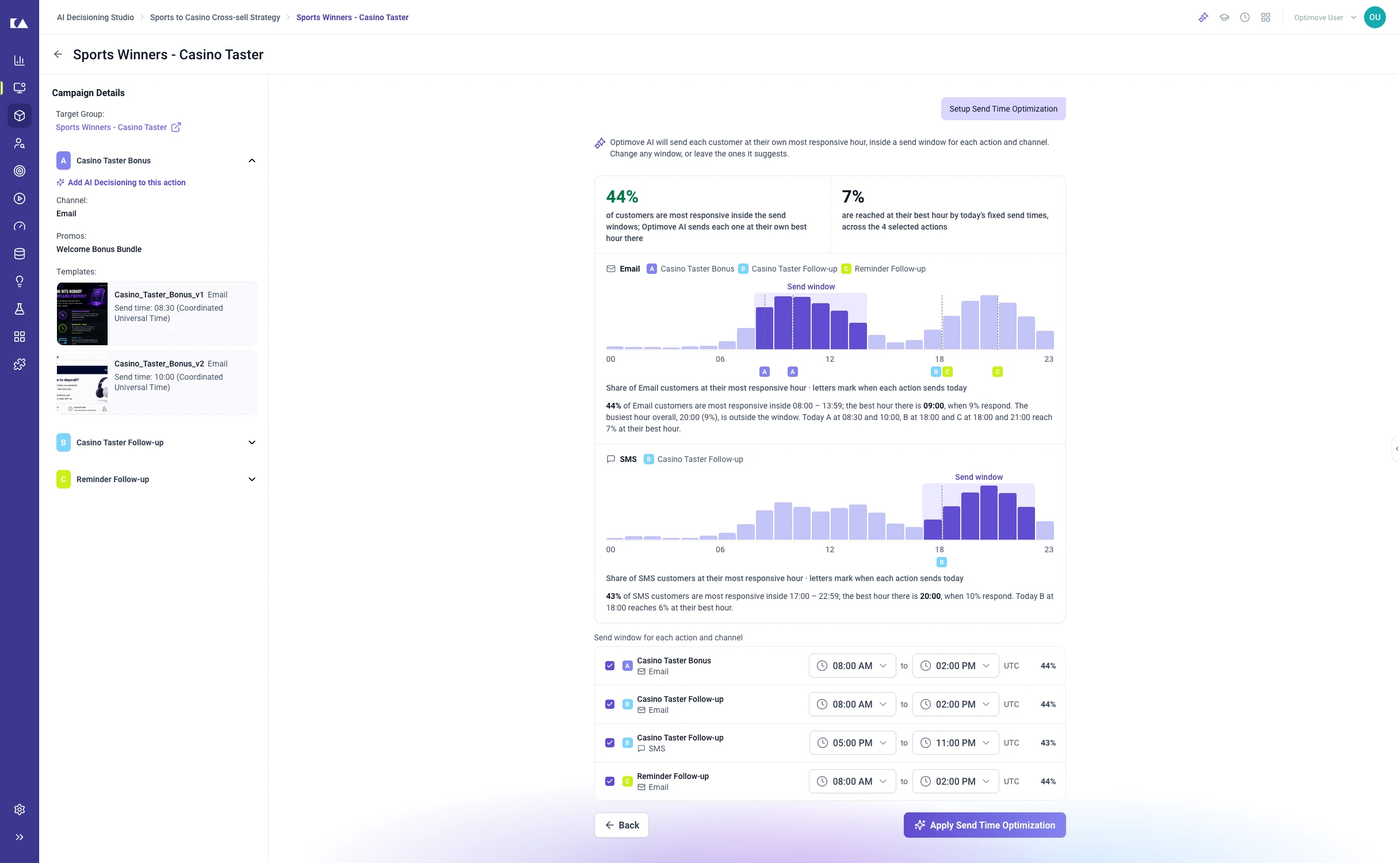
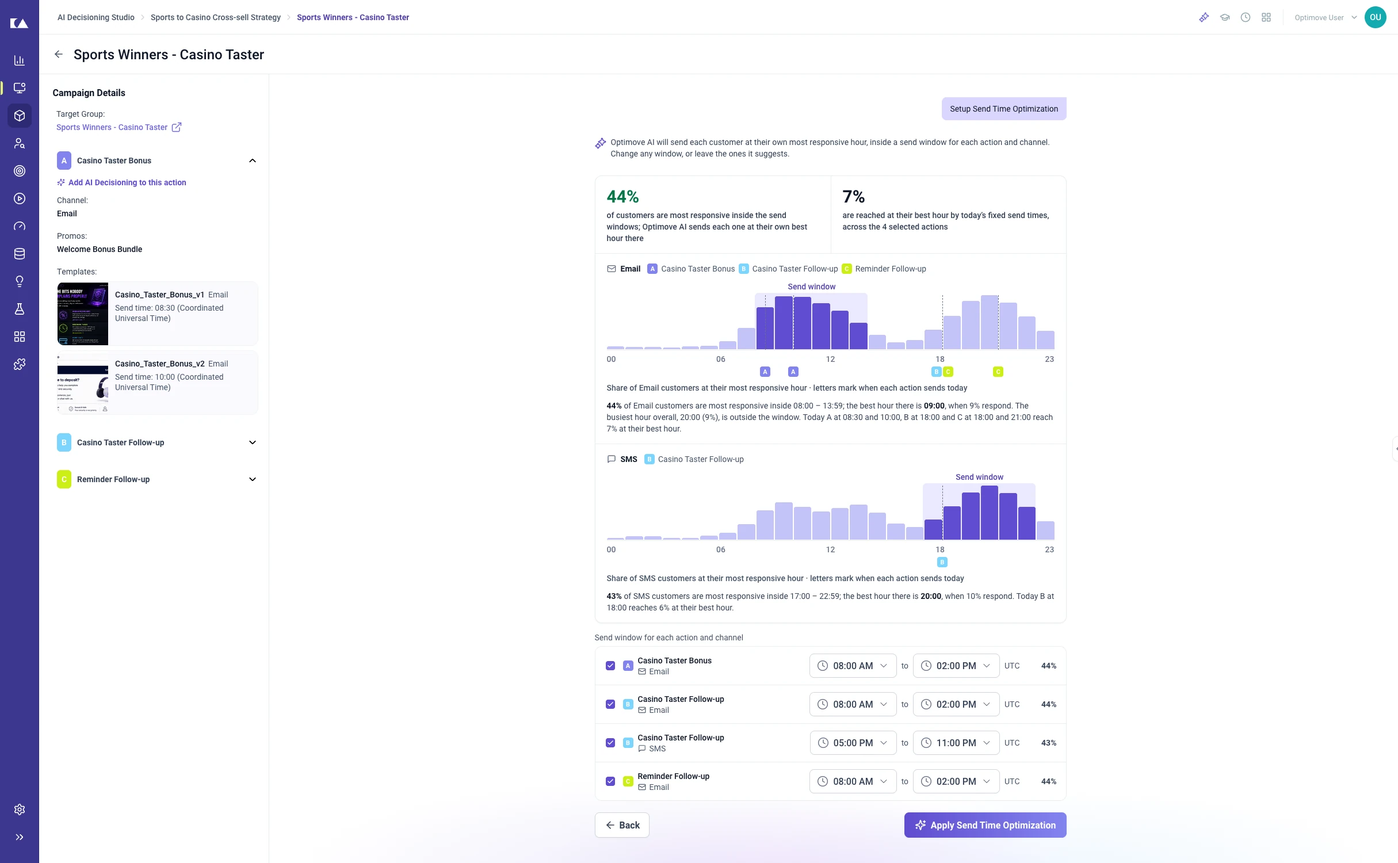
Soften the Send Time setup screenshot gradient

diff --git a/ai-decisioning-studio.html b/ai-decisioning-studio.html
@@ -874,7 +874,7 @@ body::after { content: ""; position: fixed; inset: 0; z-index: 9000; pointer-eve
             <div class="story-block fade-up"><div class="story-block__head"><span class="story-block__n">Before and after</span><h3>What it will do, then what it did</h3><p>A preview before the switch, a result against control after it.</p></div><figure class="story-block__art story-block__art--film" aria-label="Before and after"><video class="ba-film" src="./assets/ai-decisioning-studio/ads-before-after-anim.mp4?v=82c0aa6a4124" data-m="./assets/ai-decisioning-studio/ads-before-after-anim-m.mp4?v=002529f3a4f2" poster="./assets/ai-decisioning-studio/ads-before-after-anim-poster.webp?v=3c127877d6f6" width="1920" height="1030" autoplay muted playsinline preload="metadata" aria-label="Animated timeline. Before it runs: the response by hour rises and the send window is marked, 44% most responsive in it; the marketer switches Send Time Optimization on, and nothing sends before this. After it runs: random tries narrow into the best hour while it keeps exploring; Optimove AI pulls away from the random control and +7.6% counts up."></video><svg class="mg" id="ads-before-after" viewBox="0 0 1700 938" role="img" aria-label="Infographic timeline in two phases. Four stages, each an icon on a label rail feeding a card. Before it runs, what it will do: 01 setup preview, response by hour with the send window marked, 44% of customers most responsive inside the send window; 02 switch on, the marketer decides and nothing sends before this. A dashed switch-on line splits the phases. After it runs, what it did: 03 learn, explores at random and keeps exploring while it learns the best hour; 04 result, +7.6% optimization benefit against a random control group." xmlns="http://www.w3.org/2000/svg"><circle vector-effect="non-scaling-stroke" cx="190.0" cy="64" r="28" fill="#ffffff" stroke="#3d3d48" stroke-width="1.5"/><line vector-effect="non-scaling-stroke" x1="190.0" y1="64" x2="190.0" y2="47" stroke="#3d3d48" stroke-width="1.5"/><line vector-effect="non-scaling-stroke" x1="190.0" y1="64" x2="202.0" y2="71" stroke="#3d3d48" stroke-width="1.5"/><circle vector-effect="non-scaling-stroke" cx="190.0" cy="64" r="4" fill="#6b4ef5"/><line vector-effect="non-scaling-stroke" x1="213.0" y1="64.0" x2="217.0" y2="64.0" stroke="#3d3d48" stroke-width="1"/><line vector-effect="non-scaling-stroke" x1="209.91858428704208" y1="75.5" x2="213.38268590217984" y2="77.5" stroke="#3d3d48" stroke-width="1"/><line vector-effect="non-scaling-stroke" x1="201.5" y1="83.91858428704208" x2="203.5" y2="87.38268590217984" stroke="#3d3d48" stroke-width="1"/><line vector-effect="non-scaling-stroke" x1="190.0" y1="87.0" x2="190.0" y2="91.0" stroke="#3d3d48" stroke-width="1"/><line vector-effect="non-scaling-stroke" x1="178.5" y1="83.9185842870421" x2="176.5" y2="87.38268590217984" stroke="#3d3d48" stroke-width="1"/><line vector-effect="non-scaling-stroke" x1="170.08141571295792" y1="75.5" x2="166.61731409782016" y2="77.5" stroke="#3d3d48" stroke-width="1"/><line vector-effect="non-scaling-stroke" x1="167.0" y1="64.0" x2="163.0" y2="64.0" stroke="#3d3d48" stroke-width="1"/><line vector-effect="non-scaling-stroke" x1="170.0814157129579" y1="52.50000000000001" x2="166.61731409782016" y2="50.50000000000001" stroke="#3d3d48" stroke-width="1"/><line vector-effect="non-scaling-stroke" x1="178.5" y1="44.08141571295792" x2="176.5" y2="40.61731409782016" stroke="#3d3d48" stroke-width="1"/><line vector-effect="non-scaling-stroke" x1="190.0" y1="41.0" x2="190.0" y2="37.0" stroke="#3d3d48" stroke-width="1"/><line vector-effect="non-scaling-stroke" x1="201.5" y1="44.08141571295791" x2="203.5" y2="40.617314097820156" stroke="#3d3d48" stroke-width="1"/><line vector-effect="non-scaling-stroke" x1="209.91858428704208" y1="52.499999999999986" x2="213.38268590217984" y2="50.499999999999986" stroke="#3d3d48" stroke-width="1"/><line vector-effect="non-scaling-stroke" x1="60.0" y1="116" x2="320.0" y2="116" stroke="#3d3d48" stroke-width="1"/><line vector-effect="non-scaling-stroke" x1="190.0" y1="116" x2="190.0" y2="126" stroke="#3d3d48" stroke-width="1"/><text x="190.0" y="152" font-size="19.5" font-weight="700" fill="#16151f" text-anchor="middle" style="font-family:ui-monospace,SFMono-Regular,Menlo,monospace;letter-spacing:.16em">WHEN THEY RESPOND</text><line vector-effect="non-scaling-stroke" x1="140.0" y1="166" x2="240.0" y2="166" stroke="#3d3d48" stroke-width="1"/><line vector-effect="non-scaling-stroke" x1="190.0" y1="166" x2="190.0" y2="184" stroke="#3d3d48" stroke-width="1"/><circle vector-effect="non-scaling-stroke" cx="190.0" cy="193" r="8" fill="#6b4ef5"/><line vector-effect="non-scaling-stroke" x1="190.0" y1="201" x2="190.0" y2="236" stroke="#3d3d48" stroke-width="1"/><path vector-effect="non-scaling-stroke" d="M615.0 46 A24 24 0 1 0 645.0 46" fill="none" stroke="#3d3d48" stroke-width="1.5" stroke-linecap="round"/><line vector-effect="non-scaling-stroke" x1="630.0" y1="34" x2="630.0" y2="60" stroke="#6b4ef5" stroke-width="1.5" stroke-linecap="round"/><line vector-effect="non-scaling-stroke" x1="500.0" y1="116" x2="760.0" y2="116" stroke="#3d3d48" stroke-width="1"/><line vector-effect="non-scaling-stroke" x1="630.0" y1="116" x2="630.0" y2="126" stroke="#3d3d48" stroke-width="1"/><text x="630.0" y="152" font-size="19.5" font-weight="700" fill="#16151f" text-anchor="middle" style="font-family:ui-monospace,SFMono-Regular,Menlo,monospace;letter-spacing:.16em">MARKETER DECIDES</text><line vector-effect="non-scaling-stroke" x1="580.0" y1="166" x2="680.0" y2="166" stroke="#3d3d48" stroke-width="1"/><line vector-effect="non-scaling-stroke" x1="630.0" y1="166" x2="630.0" y2="184" stroke="#3d3d48" stroke-width="1"/><circle vector-effect="non-scaling-stroke" cx="630.0" cy="193" r="8" fill="#6b4ef5"/><line vector-effect="non-scaling-stroke" x1="630.0" y1="201" x2="630.0" y2="236" stroke="#3d3d48" stroke-width="1"/><path vector-effect="non-scaling-stroke" d="M1046.0 60 A24 24 0 0 1 1090.0 50" fill="none" stroke="#3d3d48" stroke-width="1.5"/><path vector-effect="non-scaling-stroke" d="M1082.0 44 L1091.0 51 L1095.0 40" fill="none" stroke="#3d3d48" stroke-width="1.5"/><path vector-effect="non-scaling-stroke" d="M1094.0 68 A24 24 0 0 1 1050.0 78" fill="none" stroke="#3d3d48" stroke-width="1.5"/><path vector-effect="non-scaling-stroke" d="M1058.0 84 L1049.0 77 L1045.0 88" fill="none" stroke="#3d3d48" stroke-width="1.5"/><circle vector-effect="non-scaling-stroke" cx="1070.0" cy="64" r="5" fill="#6b4ef5"/><line vector-effect="non-scaling-stroke" x1="940.0" y1="116" x2="1200.0" y2="116" stroke="#3d3d48" stroke-width="1"/><line vector-effect="non-scaling-stroke" x1="1070.0" y1="116" x2="1070.0" y2="126" stroke="#3d3d48" stroke-width="1"/><text x="1070.0" y="152" font-size="19.5" font-weight="700" fill="#16151f" text-anchor="middle" style="font-family:ui-monospace,SFMono-Regular,Menlo,monospace;letter-spacing:.16em">IT LEARNS</text><line vector-effect="non-scaling-stroke" x1="1020.0" y1="166" x2="1120.0" y2="166" stroke="#3d3d48" stroke-width="1"/><line vector-effect="non-scaling-stroke" x1="1070.0" y1="166" x2="1070.0" y2="184" stroke="#3d3d48" stroke-width="1"/><circle vector-effect="non-scaling-stroke" cx="1070.0" cy="193" r="8" fill="#6b4ef5"/><line vector-effect="non-scaling-stroke" x1="1070.0" y1="201" x2="1070.0" y2="236" stroke="#3d3d48" stroke-width="1"/><path vector-effect="non-scaling-stroke" d="M1482.0 36 V90 H1540.0" fill="none" stroke="#3d3d48" stroke-width="1.5"/><path vector-effect="non-scaling-stroke" d="M1490.0 78 L1504.0 68 L1516.0 74 L1532.0 48" fill="none" stroke="#6b4ef5" stroke-width="1.5"/><path vector-effect="non-scaling-stroke" d="M1490.0 82 L1532.0 76" fill="none" stroke="#b9bac2" stroke-width="1.5" stroke-dasharray="3 3"/><circle vector-effect="non-scaling-stroke" cx="1532.0" cy="48" r="4.5" fill="#6b4ef5"/><line vector-effect="non-scaling-stroke" x1="1380.0" y1="116" x2="1640.0" y2="116" stroke="#3d3d48" stroke-width="1"/><line vector-effect="non-scaling-stroke" x1="1510.0" y1="116" x2="1510.0" y2="126" stroke="#3d3d48" stroke-width="1"/><text x="1510.0" y="152" font-size="19.5" font-weight="700" fill="#16151f" text-anchor="middle" style="font-family:ui-monospace,SFMono-Regular,Menlo,monospace;letter-spacing:.16em">IT REPORTS</text><line vector-effect="non-scaling-stroke" x1="1460.0" y1="166" x2="1560.0" y2="166" stroke="#3d3d48" stroke-width="1"/><line vector-effect="non-scaling-stroke" x1="1510.0" y1="166" x2="1510.0" y2="184" stroke="#3d3d48" stroke-width="1"/><circle vector-effect="non-scaling-stroke" cx="1510.0" cy="193" r="8" fill="#6b4ef5"/><line vector-effect="non-scaling-stroke" x1="1510.0" y1="201" x2="1510.0" y2="236" stroke="#3d3d48" stroke-width="1"/><rect vector-effect="non-scaling-stroke" x="0" y="236" width="380" height="330" rx="16" fill="#ffffff" stroke="#3d3d48" stroke-width="1"/><path vector-effect="non-scaling-stroke" d="M0.7 288 V252 Q0.7 236.7 16 236.7 H364 Q379.3 236.7 379.3 252 V288 Z" fill="#ece6ff"/><line vector-effect="non-scaling-stroke" x1="0" y1="288" x2="380" y2="288" stroke="#3d3d48" stroke-width="1"/><text x="24" y="269" font-size="17.2" font-weight="700" fill="#4f4e5c" text-anchor="start" style="font-family:ui-monospace,SFMono-Regular,Menlo,monospace;letter-spacing:.16em">RESPONSE BY HOUR</text><text x="356" y="269" font-size="17.2" font-weight="700" fill="#6b4ef5" text-anchor="end" style="font-family:ui-monospace,SFMono-Regular,Menlo,monospace;letter-spacing:.16em">01</text><line vector-effect="non-scaling-stroke" x1="126.80000000000001" y1="340" x2="126.80000000000001" y2="472" stroke="#6b4ef5" stroke-width="1" stroke-dasharray="3 3"/><line vector-effect="non-scaling-stroke" x1="221.60000000000002" y1="340" x2="221.60000000000002" y2="472" stroke="#6b4ef5" stroke-width="1" stroke-dasharray="3 3"/><line vector-effect="non-scaling-stroke" x1="130.8" y1="346" x2="217.60000000000002" y2="346" stroke="#6b4ef5" stroke-width="1"/><path vector-effect="non-scaling-stroke" d="M136.8 342 L130.8 346 L136.8 350" fill="none" stroke="#6b4ef5" stroke-width="1"/><path vector-effect="non-scaling-stroke" d="M211.60000000000002 342 L217.60000000000002 346 L211.60000000000002 350" fill="none" stroke="#6b4ef5" stroke-width="1"/><text x="174.20000000000002" y="336" font-size="17.2" font-weight="600" fill="#6b4ef5" text-anchor="middle" style="font-family:ui-monospace,SFMono-Regular,Menlo,monospace">send window</text><rect vector-effect="non-scaling-stroke" x="37.0" y="460.0" width="21.6" height="12.0" fill="#ffffff" stroke="#3d3d48" stroke-width="1"/><rect vector-effect="non-scaling-stroke" x="68.6" y="455.2" width="21.6" height="16.8" fill="#ffffff" stroke="#3d3d48" stroke-width="1"/><rect vector-effect="non-scaling-stroke" x="100.2" y="445.6" width="21.6" height="26.4" fill="#ffffff" stroke="#3d3d48" stroke-width="1"/><rect vector-effect="non-scaling-stroke" x="131.8" y="400.0" width="21.6" height="72.0" fill="#6b4ef5" stroke="#6b4ef5" stroke-width="1"/><rect vector-effect="non-scaling-stroke" x="163.4" y="373.6" width="21.6" height="98.4" fill="#6b4ef5" stroke="#6b4ef5" stroke-width="1"/><rect vector-effect="non-scaling-stroke" x="195.0" y="392.8" width="21.6" height="79.2" fill="#6b4ef5" stroke="#6b4ef5" stroke-width="1"/><rect vector-effect="non-scaling-stroke" x="226.6" y="426.4" width="21.6" height="45.6" fill="#ffffff" stroke="#3d3d48" stroke-width="1"/><rect vector-effect="non-scaling-stroke" x="258.2" y="448.0" width="21.6" height="24.0" fill="#ffffff" stroke="#3d3d48" stroke-width="1"/><rect vector-effect="non-scaling-stroke" x="289.8" y="455.2" width="21.6" height="16.8" fill="#ffffff" stroke="#3d3d48" stroke-width="1"/><rect vector-effect="non-scaling-stroke" x="321.4" y="460.0" width="21.6" height="12.0" fill="#ffffff" stroke="#3d3d48" stroke-width="1"/><line vector-effect="non-scaling-stroke" x1="26" y1="472" x2="354.0" y2="472" stroke="#3d3d48" stroke-width="1"/><line vector-effect="non-scaling-stroke" x1="32.0" y1="472" x2="32.0" y2="477" stroke="#3d3d48" stroke-width="1"/><line vector-effect="non-scaling-stroke" x1="63.6" y1="472" x2="63.6" y2="477" stroke="#3d3d48" stroke-width="1"/><line vector-effect="non-scaling-stroke" x1="95.2" y1="472" x2="95.2" y2="477" stroke="#3d3d48" stroke-width="1"/><line vector-effect="non-scaling-stroke" x1="126.80000000000001" y1="472" x2="126.80000000000001" y2="477" stroke="#3d3d48" stroke-width="1"/><line vector-effect="non-scaling-stroke" x1="158.4" y1="472" x2="158.4" y2="477" stroke="#3d3d48" stroke-width="1"/><line vector-effect="non-scaling-stroke" x1="190.0" y1="472" x2="190.0" y2="477" stroke="#3d3d48" stroke-width="1"/><line vector-effect="non-scaling-stroke" x1="221.60000000000002" y1="472" x2="221.60000000000002" y2="477" stroke="#3d3d48" stroke-width="1"/><line vector-effect="non-scaling-stroke" x1="253.20000000000002" y1="472" x2="253.20000000000002" y2="477" stroke="#3d3d48" stroke-width="1"/><line vector-effect="non-scaling-stroke" x1="284.8" y1="472" x2="284.8" y2="477" stroke="#3d3d48" stroke-width="1"/><line vector-effect="non-scaling-stroke" x1="316.40000000000003" y1="472" x2="316.40000000000003" y2="477" stroke="#3d3d48" stroke-width="1"/><line vector-effect="non-scaling-stroke" x1="348.0" y1="472" x2="348.0" y2="477" stroke="#3d3d48" stroke-width="1"/><rect vector-effect="non-scaling-stroke" x="24" y="504" width="69" height="34" rx="17" fill="#e4f48c"/><text x="41" y="527" font-size="19" font-weight="600" fill="#16151f" text-anchor="start" style="font-family:var(--font-display),Inter,system-ui,sans-serif">44%</text><text x="112" y="528" font-size="20" font-weight="600" fill="#16151f" text-anchor="start" style="font-family:var(--font-display),Inter,system-ui,sans-serif">most responsive in it</text><rect vector-effect="non-scaling-stroke" x="440" y="236" width="380" height="330" rx="16" fill="#ffffff" stroke="#3d3d48" stroke-width="1"/><path vector-effect="non-scaling-stroke" d="M440.7 288 V252 Q440.7 236.7 456 236.7 H804 Q819.3 236.7 819.3 252 V288 Z" fill="#ece6ff"/><line vector-effect="non-scaling-stroke" x1="440" y1="288" x2="820" y2="288" stroke="#3d3d48" stroke-width="1"/><text x="464" y="269" font-size="17.2" font-weight="700" fill="#4f4e5c" text-anchor="start" style="font-family:ui-monospace,SFMono-Regular,Menlo,monospace;letter-spacing:.16em">SEND TIME OPTIMIZATION</text><text x="796" y="269" font-size="17.2" font-weight="700" fill="#6b4ef5" text-anchor="end" style="font-family:ui-monospace,SFMono-Regular,Menlo,monospace;letter-spacing:.16em">02</text><rect vector-effect="non-scaling-stroke" x="578.0" y="340" width="104" height="52" rx="26" fill="#6b4ef5" stroke="#3d3d48" stroke-width="1"/><circle vector-effect="non-scaling-stroke" cx="656.0" cy="366" r="19" fill="#ffffff" stroke="#3d3d48" stroke-width="1"/><line vector-effect="non-scaling-stroke" x1="510.0" y1="366" x2="566.0" y2="366" stroke="#3d3d48" stroke-width="1" stroke-dasharray="3 4"/><line vector-effect="non-scaling-stroke" x1="694.0" y1="366" x2="750.0" y2="366" stroke="#3d3d48" stroke-width="1"/><text x="502.0" y="371" font-size="16.1" font-weight="700" fill="#4f4e5c" text-anchor="end" style="font-family:ui-monospace,SFMono-Regular,Menlo,monospace;letter-spacing:.14em">OFF</text><text x="758.0" y="371" font-size="16.1" font-weight="700" fill="#6b4ef5" text-anchor="start" style="font-family:ui-monospace,SFMono-Regular,Menlo,monospace;letter-spacing:.14em">ON</text><text x="630.0" y="440" font-size="18" font-weight="400" fill="#4f4e5c" text-anchor="middle" style="font-family:var(--font-display),Inter,system-ui,sans-serif">Each customer at their best hour</text><text x="464" y="528" font-size="20" font-weight="600" fill="#16151f" text-anchor="start" style="font-family:var(--font-display),Inter,system-ui,sans-serif">Nothing sends before this</text><rect vector-effect="non-scaling-stroke" x="880" y="236" width="380" height="330" rx="16" fill="#ffffff" stroke="#3d3d48" stroke-width="1"/><path vector-effect="non-scaling-stroke" d="M880.7 288 V252 Q880.7 236.7 896 236.7 H1244 Q1259.3 236.7 1259.3 252 V288 Z" fill="#ece6ff"/><line vector-effect="non-scaling-stroke" x1="880" y1="288" x2="1260" y2="288" stroke="#3d3d48" stroke-width="1"/><text x="904" y="269" font-size="17.2" font-weight="700" fill="#4f4e5c" text-anchor="start" style="font-family:ui-monospace,SFMono-Regular,Menlo,monospace;letter-spacing:.16em">LEARNING</text><text x="1236" y="269" font-size="17.2" font-weight="700" fill="#6b4ef5" text-anchor="end" style="font-family:ui-monospace,SFMono-Regular,Menlo,monospace;letter-spacing:.16em">03</text><path vector-effect="non-scaling-stroke" d="M914 316 C1054.4 316 1085.6 370.0 1226 370.0" fill="none" stroke="#b9bac2" stroke-width="1" stroke-dasharray="3 4"/><path vector-effect="non-scaling-stroke" d="M914 452 C1054.4 452 1085.6 398.0 1226 398.0" fill="none" stroke="#b9bac2" stroke-width="1" stroke-dasharray="3 4"/><circle vector-effect="non-scaling-stroke" cx="914.0" cy="362.0" r="4.5" fill="#ffffff" stroke="#3d3d48" stroke-width="1"/><circle vector-effect="non-scaling-stroke" cx="927.6" cy="342.0" r="4.5" fill="#ffffff" stroke="#3d3d48" stroke-width="1"/><circle vector-effect="non-scaling-stroke" cx="941.1" cy="401.4" r="4.5" fill="#ffffff" stroke="#3d3d48" stroke-width="1"/><circle vector-effect="non-scaling-stroke" cx="954.7" cy="336.7" r="4.5" fill="#ffffff" stroke="#3d3d48" stroke-width="1"/><circle vector-effect="non-scaling-stroke" cx="968.3" cy="387.8" r="4.5" fill="#ffffff" stroke="#3d3d48" stroke-width="1"/><circle vector-effect="non-scaling-stroke" cx="981.8" cy="370.5" r="4.5" fill="#ffffff" stroke="#3d3d48" stroke-width="1"/><circle vector-effect="non-scaling-stroke" cx="995.4" cy="341.6" r="4.5" fill="#ffffff" stroke="#3d3d48" stroke-width="1"/><circle vector-effect="non-scaling-stroke" cx="1009.0" cy="384.7" r="4.5" fill="#ffffff" stroke="#3d3d48" stroke-width="1"/><circle vector-effect="non-scaling-stroke" cx="1022.5" cy="344.1" r="4.5" fill="#ffffff" stroke="#3d3d48" stroke-width="1"/><circle vector-effect="non-scaling-stroke" cx="1036.1" cy="378.6" r="4.5" fill="#ffffff" stroke="#3d3d48" stroke-width="1"/><circle vector-effect="non-scaling-stroke" cx="1049.7" cy="351.0" r="4.5" fill="#ffffff" stroke="#3d3d48" stroke-width="1"/><circle vector-effect="non-scaling-stroke" cx="1063.2" cy="354.6" r="4.5" fill="#ffffff" stroke="#3d3d48" stroke-width="1"/><circle vector-effect="non-scaling-stroke" cx="1076.8" cy="378.9" r="4.5" fill="#ffffff" stroke="#3d3d48" stroke-width="1"/><circle vector-effect="non-scaling-stroke" cx="1090.3" cy="404.3" r="4.5" fill="#6b4ef5"/><circle vector-effect="non-scaling-stroke" cx="1103.9" cy="362.5" r="4.5" fill="#6b4ef5"/><circle vector-effect="non-scaling-stroke" cx="1117.5" cy="369.5" r="4.5" fill="#ffffff" stroke="#3d3d48" stroke-width="1"/><circle vector-effect="non-scaling-stroke" cx="1131.0" cy="390.1" r="4.5" fill="#6b4ef5"/><circle vector-effect="non-scaling-stroke" cx="1144.6" cy="403.1" r="4.5" fill="#6b4ef5"/><circle vector-effect="non-scaling-stroke" cx="1158.2" cy="386.9" r="4.5" fill="#6b4ef5"/><circle vector-effect="non-scaling-stroke" cx="1171.7" cy="380.6" r="4.5" fill="#6b4ef5"/><circle vector-effect="non-scaling-stroke" cx="1185.3" cy="397.4" r="4.5" fill="#ffffff" stroke="#3d3d48" stroke-width="1"/><circle vector-effect="non-scaling-stroke" cx="1198.9" cy="373.4" r="4.5" fill="#6b4ef5"/><circle vector-effect="non-scaling-stroke" cx="1212.4" cy="390.6" r="4.5" fill="#6b4ef5"/><circle vector-effect="non-scaling-stroke" cx="1226.0" cy="381.1" r="4.5" fill="#6b4ef5"/><line vector-effect="non-scaling-stroke" x1="914" y1="476" x2="1226" y2="476" stroke="#3d3d48" stroke-width="1"/><line vector-effect="non-scaling-stroke" x1="914" y1="471" x2="914" y2="481" stroke="#3d3d48" stroke-width="1"/><line vector-effect="non-scaling-stroke" x1="1226" y1="471" x2="1226" y2="481" stroke="#3d3d48" stroke-width="1"/><text x="914" y="498" font-size="17.2" font-weight="600" fill="#4f4e5c" text-anchor="start" style="font-family:ui-monospace,SFMono-Regular,Menlo,monospace">random tries</text><text x="1226" y="498" font-size="17.2" font-weight="600" fill="#6b4ef5" text-anchor="end" style="font-family:ui-monospace,SFMono-Regular,Menlo,monospace">best hour</text><text x="904" y="528" font-size="20" font-weight="600" fill="#16151f" text-anchor="start" style="font-family:var(--font-display),Inter,system-ui,sans-serif">Explores at random, then learns</text><rect vector-effect="non-scaling-stroke" x="1320" y="236" width="380" height="330" rx="16" fill="#ffffff" stroke="#3d3d48" stroke-width="1"/><path vector-effect="non-scaling-stroke" d="M1320.7 288 V252 Q1320.7 236.7 1336 236.7 H1684 Q1699.3 236.7 1699.3 252 V288 Z" fill="#ece6ff"/><line vector-effect="non-scaling-stroke" x1="1320" y1="288" x2="1700" y2="288" stroke="#3d3d48" stroke-width="1"/><text x="1344" y="269" font-size="17.2" font-weight="700" fill="#4f4e5c" text-anchor="start" style="font-family:ui-monospace,SFMono-Regular,Menlo,monospace;letter-spacing:.16em">OPTIMIZATION BENEFIT</text><text x="1676" y="269" font-size="17.2" font-weight="700" fill="#6b4ef5" text-anchor="end" style="font-family:ui-monospace,SFMono-Regular,Menlo,monospace;letter-spacing:.16em">04</text><rect vector-effect="non-scaling-stroke" x="1344" y="310" width="150" height="56" rx="28" fill="#e4f48c"/><text x="1419" y="350" font-size="34" font-weight="700" fill="#16151f" text-anchor="middle" style="font-family:var(--font-display),Inter,system-ui,sans-serif">+7.6%</text><path vector-effect="non-scaling-stroke" d="M1352.0 473.0 L1431.0 469.4 L1510.0 473.9 L1589.0 465.8 L1668.0 471.2" fill="none" stroke="#4f4e5c" stroke-width="1" stroke-dasharray="4 4"/><path vector-effect="non-scaling-stroke" d="M1352.0 473.0 L1431.0 467.6 L1510.0 470.3 L1589.0 441.5 L1668.0 405.5" fill="none" stroke="#6b4ef5" stroke-width="1.5"/><circle vector-effect="non-scaling-stroke" cx="1352.0" cy="473.0" r="4.5" fill="#6b4ef5"/><circle vector-effect="non-scaling-stroke" cx="1431.0" cy="467.6" r="4.5" fill="#6b4ef5"/><circle vector-effect="non-scaling-stroke" cx="1510.0" cy="470.3" r="4.5" fill="#6b4ef5"/><circle vector-effect="non-scaling-stroke" cx="1589.0" cy="441.5" r="4.5" fill="#6b4ef5"/><circle vector-effect="non-scaling-stroke" cx="1668.0" cy="405.5" r="4.5" fill="#6b4ef5"/><line vector-effect="non-scaling-stroke" x1="1352" y1="482" x2="1668" y2="482" stroke="#3d3d48" stroke-width="1"/><line vector-effect="non-scaling-stroke" x1="1352.0" y1="482" x2="1352.0" y2="487" stroke="#3d3d48" stroke-width="1"/><line vector-effect="non-scaling-stroke" x1="1431.0" y1="482" x2="1431.0" y2="487" stroke="#3d3d48" stroke-width="1"/><line vector-effect="non-scaling-stroke" x1="1510.0" y1="482" x2="1510.0" y2="487" stroke="#3d3d48" stroke-width="1"/><line vector-effect="non-scaling-stroke" x1="1589.0" y1="482" x2="1589.0" y2="487" stroke="#3d3d48" stroke-width="1"/><line vector-effect="non-scaling-stroke" x1="1668.0" y1="482" x2="1668.0" y2="487" stroke="#3d3d48" stroke-width="1"/><text x="1668" y="391.5" font-size="17.2" font-weight="700" fill="#6b4ef5" text-anchor="end" style="font-family:ui-monospace,SFMono-Regular,Menlo,monospace;letter-spacing:.04em">Optimove AI</text><text x="1668" y="506" font-size="17.2" font-weight="600" fill="#4f4e5c" text-anchor="end" style="font-family:ui-monospace,SFMono-Regular,Menlo,monospace">random control</text><text x="1344" y="528" font-size="20" font-weight="600" fill="#16151f" text-anchor="start" style="font-family:var(--font-display),Inter,system-ui,sans-serif">Against a random control group</text><line vector-effect="non-scaling-stroke" x1="0" y1="650" x2="0" y2="662" stroke="#3d3d48" stroke-width="1"/><line vector-effect="non-scaling-stroke" x1="50" y1="650" x2="50" y2="656" stroke="#3d3d48" stroke-width="1"/><line vector-effect="non-scaling-stroke" x1="100" y1="650" x2="100" y2="656" stroke="#3d3d48" stroke-width="1"/><line vector-effect="non-scaling-stroke" x1="150" y1="650" x2="150" y2="656" stroke="#3d3d48" stroke-width="1"/><line vector-effect="non-scaling-stroke" x1="200" y1="650" x2="200" y2="656" stroke="#3d3d48" stroke-width="1"/><line vector-effect="non-scaling-stroke" x1="250" y1="650" x2="250" y2="662" stroke="#3d3d48" stroke-width="1"/><line vector-effect="non-scaling-stroke" x1="300" y1="650" x2="300" y2="656" stroke="#3d3d48" stroke-width="1"/><line vector-effect="non-scaling-stroke" x1="350" y1="650" x2="350" y2="656" stroke="#3d3d48" stroke-width="1"/><line vector-effect="non-scaling-stroke" x1="400" y1="650" x2="400" y2="656" stroke="#3d3d48" stroke-width="1"/><line vector-effect="non-scaling-stroke" x1="450" y1="650" x2="450" y2="656" stroke="#3d3d48" stroke-width="1"/><line vector-effect="non-scaling-stroke" x1="500" y1="650" x2="500" y2="662" stroke="#3d3d48" stroke-width="1"/><line vector-effect="non-scaling-stroke" x1="550" y1="650" x2="550" y2="656" stroke="#3d3d48" stroke-width="1"/><line vector-effect="non-scaling-stroke" x1="600" y1="650" x2="600" y2="656" stroke="#3d3d48" stroke-width="1"/><line vector-effect="non-scaling-stroke" x1="650" y1="650" x2="650" y2="656" stroke="#3d3d48" stroke-width="1"/><line vector-effect="non-scaling-stroke" x1="700" y1="650" x2="700" y2="656" stroke="#3d3d48" stroke-width="1"/><line vector-effect="non-scaling-stroke" x1="750" y1="650" x2="750" y2="662" stroke="#3d3d48" stroke-width="1"/><line vector-effect="non-scaling-stroke" x1="800" y1="650" x2="800" y2="656" stroke="#3d3d48" stroke-width="1"/><line vector-effect="non-scaling-stroke" x1="850" y1="650" x2="850" y2="656" stroke="#3d3d48" stroke-width="1"/><line vector-effect="non-scaling-stroke" x1="900" y1="650" x2="900" y2="656" stroke="#3d3d48" stroke-width="1"/><line vector-effect="non-scaling-stroke" x1="950" y1="650" x2="950" y2="656" stroke="#3d3d48" stroke-width="1"/><line vector-effect="non-scaling-stroke" x1="1000" y1="650" x2="1000" y2="662" stroke="#3d3d48" stroke-width="1"/><line vector-effect="non-scaling-stroke" x1="1050" y1="650" x2="1050" y2="656" stroke="#3d3d48" stroke-width="1"/><line vector-effect="non-scaling-stroke" x1="1100" y1="650" x2="1100" y2="656" stroke="#3d3d48" stroke-width="1"/><line vector-effect="non-scaling-stroke" x1="1150" y1="650" x2="1150" y2="656" stroke="#3d3d48" stroke-width="1"/><line vector-effect="non-scaling-stroke" x1="1200" y1="650" x2="1200" y2="656" stroke="#3d3d48" stroke-width="1"/><line vector-effect="non-scaling-stroke" x1="1250" y1="650" x2="1250" y2="662" stroke="#3d3d48" stroke-width="1"/><line vector-effect="non-scaling-stroke" x1="1300" y1="650" x2="1300" y2="656" stroke="#3d3d48" stroke-width="1"/><line vector-effect="non-scaling-stroke" x1="1350" y1="650" x2="1350" y2="656" stroke="#3d3d48" stroke-width="1"/><line vector-effect="non-scaling-stroke" x1="1400" y1="650" x2="1400" y2="656" stroke="#3d3d48" stroke-width="1"/><line vector-effect="non-scaling-stroke" x1="1450" y1="650" x2="1450" y2="656" stroke="#3d3d48" stroke-width="1"/><line vector-effect="non-scaling-stroke" x1="1500" y1="650" x2="1500" y2="662" stroke="#3d3d48" stroke-width="1"/><line vector-effect="non-scaling-stroke" x1="1550" y1="650" x2="1550" y2="656" stroke="#3d3d48" stroke-width="1"/><line vector-effect="non-scaling-stroke" x1="1600" y1="650" x2="1600" y2="656" stroke="#3d3d48" stroke-width="1"/><line vector-effect="non-scaling-stroke" x1="1650" y1="650" x2="1650" y2="656" stroke="#3d3d48" stroke-width="1"/><line vector-effect="non-scaling-stroke" x1="1700" y1="650" x2="1700" y2="656" stroke="#3d3d48" stroke-width="1"/><line vector-effect="non-scaling-stroke" x1="0" y1="650" x2="1698" y2="650" stroke="#3d3d48" stroke-width="1"/><path vector-effect="non-scaling-stroke" d="M1688 644 L1700 650 L1688 656" fill="none" stroke="#3d3d48" stroke-width="1"/><line vector-effect="non-scaling-stroke" x1="850.0" y1="236" x2="850.0" y2="672" stroke="#6b4ef5" stroke-width="1" stroke-dasharray="4 4"/><text x="850.0" y="700" font-size="17.2" font-weight="700" fill="#6b4ef5" text-anchor="middle" style="font-family:ui-monospace,SFMono-Regular,Menlo,monospace;letter-spacing:.14em">SWITCH-ON</text><line vector-effect="non-scaling-stroke" x1="190.0" y1="566" x2="190.0" y2="640" stroke="#3d3d48" stroke-width="1"/><path vector-effect="non-scaling-stroke" d="M183.0 626 L190.0 636 L197.0 626" fill="none" stroke="#3d3d48" stroke-width="1"/><circle vector-effect="non-scaling-stroke" cx="190.0" cy="650" r="9" fill="#ffffff" stroke="#6b4ef5" stroke-width="1.5"/><text x="190.0" y="700" font-size="18.4" font-weight="600" fill="#4f4e5c" text-anchor="middle" style="font-family:ui-monospace,SFMono-Regular,Menlo,monospace">01</text><text x="190.0" y="736" font-size="28" font-weight="700" fill="#16151f" text-anchor="middle" style="font-family:var(--font-display),Inter,system-ui,sans-serif">Setup preview</text><line vector-effect="non-scaling-stroke" x1="630.0" y1="566" x2="630.0" y2="640" stroke="#3d3d48" stroke-width="1"/><path vector-effect="non-scaling-stroke" d="M623.0 626 L630.0 636 L637.0 626" fill="none" stroke="#3d3d48" stroke-width="1"/><circle vector-effect="non-scaling-stroke" cx="630.0" cy="650" r="9" fill="#ffffff" stroke="#6b4ef5" stroke-width="1.5"/><text x="630.0" y="700" font-size="18.4" font-weight="600" fill="#4f4e5c" text-anchor="middle" style="font-family:ui-monospace,SFMono-Regular,Menlo,monospace">02</text><text x="630.0" y="736" font-size="28" font-weight="700" fill="#16151f" text-anchor="middle" style="font-family:var(--font-display),Inter,system-ui,sans-serif">Switch on</text><line vector-effect="non-scaling-stroke" x1="1070.0" y1="566" x2="1070.0" y2="640" stroke="#3d3d48" stroke-width="1"/><path vector-effect="non-scaling-stroke" d="M1063.0 626 L1070.0 636 L1077.0 626" fill="none" stroke="#3d3d48" stroke-width="1"/><circle vector-effect="non-scaling-stroke" cx="1070.0" cy="650" r="9" fill="#6b4ef5"/><text x="1070.0" y="700" font-size="18.4" font-weight="600" fill="#4f4e5c" text-anchor="middle" style="font-family:ui-monospace,SFMono-Regular,Menlo,monospace">03</text><text x="1070.0" y="736" font-size="28" font-weight="700" fill="#16151f" text-anchor="middle" style="font-family:var(--font-display),Inter,system-ui,sans-serif">Learn</text><line vector-effect="non-scaling-stroke" x1="1510.0" y1="566" x2="1510.0" y2="640" stroke="#3d3d48" stroke-width="1"/><path vector-effect="non-scaling-stroke" d="M1503.0 626 L1510.0 636 L1517.0 626" fill="none" stroke="#3d3d48" stroke-width="1"/><circle vector-effect="non-scaling-stroke" cx="1510.0" cy="650" r="9" fill="#6b4ef5"/><text x="1510.0" y="700" font-size="18.4" font-weight="600" fill="#4f4e5c" text-anchor="middle" style="font-family:ui-monospace,SFMono-Regular,Menlo,monospace">04</text><text x="1510.0" y="736" font-size="28" font-weight="700" fill="#16151f" text-anchor="middle" style="font-family:var(--font-display),Inter,system-ui,sans-serif">Result vs control</text><line vector-effect="non-scaling-stroke" x1="0" y1="764" x2="0" y2="776" stroke="#3d3d48" stroke-width="1"/><line vector-effect="non-scaling-stroke" x1="0" y1="776" x2="820" y2="776" stroke="#3d3d48" stroke-width="1"/><line vector-effect="non-scaling-stroke" x1="820" y1="764" x2="820" y2="776" stroke="#3d3d48" stroke-width="1"/><line vector-effect="non-scaling-stroke" x1="410.0" y1="776" x2="410.0" y2="790" stroke="#3d3d48" stroke-width="1"/><circle vector-effect="non-scaling-stroke" cx="410.0" cy="798" r="6" fill="#6b4ef5"/><text x="410.0" y="838" font-size="19.5" font-weight="700" fill="#16151f" text-anchor="middle" style="font-family:ui-monospace,SFMono-Regular,Menlo,monospace;letter-spacing:.16em">BEFORE IT RUNS</text><text x="410.0" y="866" font-size="18" font-weight="400" fill="#4f4e5c" text-anchor="middle" style="font-family:var(--font-display),Inter,system-ui,sans-serif">what it will do</text><line vector-effect="non-scaling-stroke" x1="880" y1="764" x2="880" y2="776" stroke="#3d3d48" stroke-width="1"/><line vector-effect="non-scaling-stroke" x1="880" y1="776" x2="1700" y2="776" stroke="#3d3d48" stroke-width="1"/><line vector-effect="non-scaling-stroke" x1="1700" y1="764" x2="1700" y2="776" stroke="#3d3d48" stroke-width="1"/><line vector-effect="non-scaling-stroke" x1="1290.0" y1="776" x2="1290.0" y2="790" stroke="#3d3d48" stroke-width="1"/><circle vector-effect="non-scaling-stroke" cx="1290.0" cy="798" r="6" fill="#6b4ef5"/><text x="1290.0" y="838" font-size="19.5" font-weight="700" fill="#16151f" text-anchor="middle" style="font-family:ui-monospace,SFMono-Regular,Menlo,monospace;letter-spacing:.16em">AFTER IT RUNS</text><text x="1290.0" y="866" font-size="18" font-weight="400" fill="#4f4e5c" text-anchor="middle" style="font-family:var(--font-display),Inter,system-ui,sans-serif">what it did</text><line vector-effect="non-scaling-stroke" x1="0" y1="894" x2="1700" y2="894" stroke="#d9d7e3" stroke-width="1"/><text x="0" y="926" font-size="18.4" font-weight="600" fill="#4f4e5c" text-anchor="start" style="font-family:ui-monospace,SFMono-Regular,Menlo,monospace;letter-spacing:.08em">FIG. 03.1</text><text x="1700" y="926" font-size="18" font-weight="600" fill="#16151f" text-anchor="end" style="font-family:var(--font-display),Inter,system-ui,sans-serif">A preview before the switch, a result after it.</text></svg></figure></div>
             <div class="story-opening story-opening--page story-opening--sketch story-before">
                 <div class="princ fade-up"><span class="n">Before it runs</span><h3>What customers will receive, not only what they got</h3><p>Setting up Send Time shows when customers respond and how many the send window reaches, against today’s fixed times. The marketer sees the change before switching it on.</p></div>
-                <figure class="story-sketch story-still fade-up"><div class="ads-shot" data-full="./assets/ai-decisioning-studio/sto-setup.webp?v=43697b2646a2" data-width="2430" data-height="1500" data-title="Send Time Optimization setup"><img loading="lazy" decoding="async" src="./assets/ai-decisioning-studio/sto-setup.webp?v=43697b2646a2" width="2430" height="1500" alt="Setting up Send Time Optimization on a campaign with three actions, the whole page: the share of customers most responsive inside the send windows against today’s fixed times, a chart per channel with each action’s current send time and the suggested send window, then the send window for each action and channel, ready to apply"></div></figure>
+                <figure class="story-sketch story-still fade-up"><div class="ads-shot" data-full="./assets/ai-decisioning-studio/sto-setup.webp?v=060f24b45114" data-width="2430" data-height="1500" data-title="Send Time Optimization setup"><img loading="lazy" decoding="async" src="./assets/ai-decisioning-studio/sto-setup.webp?v=060f24b45114" width="2430" height="1500" alt="Setting up Send Time Optimization on a campaign with three actions, the whole page: the share of customers most responsive inside the send windows against today’s fixed times, a chart per channel with each action’s current send time and the suggested send window, then the send window for each action and channel, ready to apply"></div></figure>
             </div>
             <div class="story-block__head story-block__head--sub fade-up"><span class="story-block__n">After it runs</span><h3>What it did, against control</h3><p>Each engine’s result opens in one plain sentence that names its baseline. Promotion shows what every promotion earned per customer against random decisions. Send Time shows the lift on opens and clicks against a control group sent at the brand’s best hours, occurrence by occurrence, then when customers really respond, read from the product’s own engagement report.</p></div><div class="ads-full-pair"><figure class="ads-closeup ads-full fade-up"><div class="ads-closeup__shot"><div class="ads-closeup__frame"><img loading="lazy" decoding="async" src="./assets/ai-decisioning-studio/campaign-promotion.webp?v=2e51a6ea7dbe" width="2430" height="1289" alt="The Live Casino - First Visit campaign page on its Promotion Decisioning tab: Promotion 3.5% ahead on Casino Bet Amount against random decisions, 3,533 customers decided for, and each promotion with its customers, share, result per customer and difference against random decisions"></div></div></figure><figure class="ads-closeup ads-full fade-up"><div class="ads-closeup__shot"><div class="ads-closeup__frame"><img loading="lazy" decoding="async" src="./assets/ai-decisioning-studio/campaign-sendtime.webp?v=4f47b4d77cf5" width="2430" height="1289" alt="The same campaign on its Send Time Optimization tab: open rate up 8.6% and click rate up 10% against a control group sent at the brand’s best hours, occurrence by occurrence, and the engagement heatmap showing customers respond best at 7 PM while 2 PM gets the most sends"></div></div></figure></div>
         </div></section>
